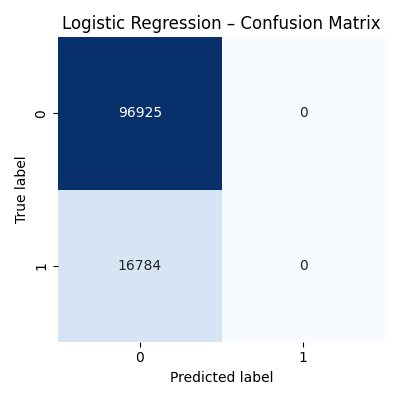
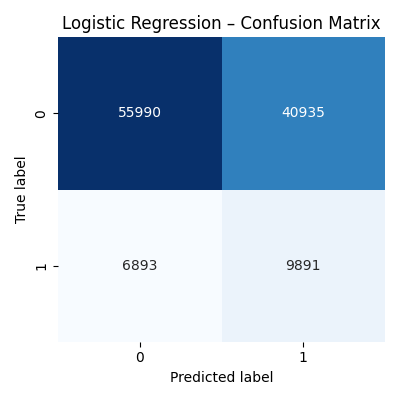
Fix - updated logistic_regression in train.py

diff --git a/src/main.py b/src/main.py
@@ -95,7 +95,6 @@ y_class = y_class.loc[valid_idx]
 platform_order_time = data.loc[valid_idx,"platform_order_time"]
 #order_push_time = data.loc[valid_idx, "order_push_time"]
 
-
 # Time-based train/test split (2.5)
 split_df = X_model.assign(
     #order_push_time=order_push_time,
@@ -104,6 +103,7 @@ split_df = X_model.assign(
 ).sort_values("platform_order_time")
 
 split_idx = int(0.8 * len(split_df))
+
 
 train_df = split_df.iloc[:split_idx]
 test_df = split_df.iloc[split_idx:]
@@ -181,3 +181,5 @@ plot_model_comparison(
     },
     "results/model_comparison.png"
 )
+
+

diff --git a/src/train.py b/src/train.py
@@ -1,7 +1,16 @@
 from sklearn.linear_model import LogisticRegression
 
+from sklearn.pipeline import Pipeline
+from sklearn.preprocessing import StandardScaler
+
 def train_logistic_regression(X_train, y_train):
-    model = LogisticRegression(max_iter=1000)
+    model = Pipeline([
+        ("scaler", StandardScaler()),
+        ("lr", LogisticRegression(
+            max_iter= 1000,
+            class_weight= "balanced"
+        ))
+    ])
     model.fit(X_train, y_train)
     return model
 

diff --git a/src/evaluate.py b/src/evaluate.py
@@ -31,3 +31,4 @@ def evaluate_classification(model, X_test, y_test):
         "recall": recall,
         "confusion_matrix": cm,
     }
+

diff --git a/src/features.py b/src/features.py
@@ -126,3 +126,5 @@ def add_engineered_features(data: pd.DataFrame) -> pd.DataFrame:
     )
 
     return data
+
+
